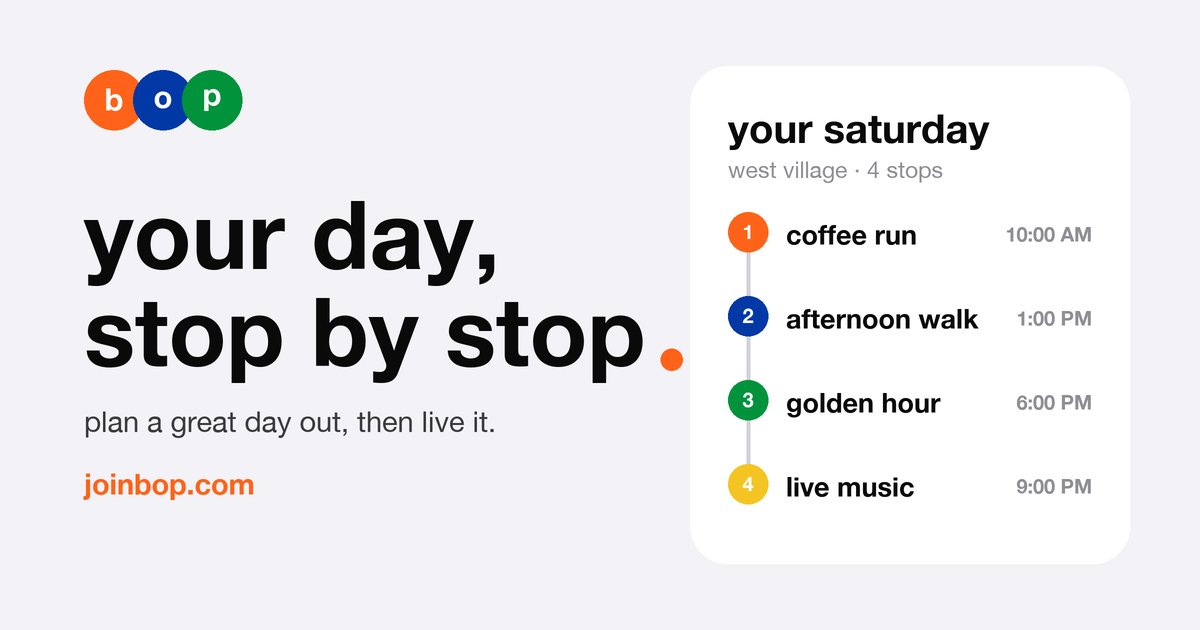
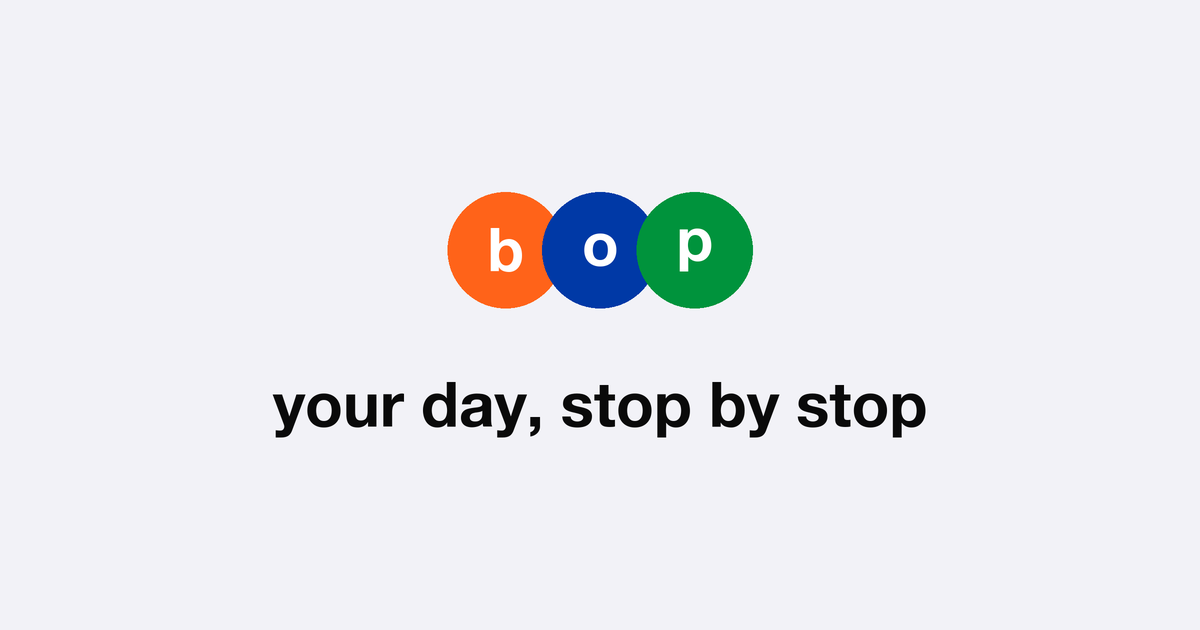
Simplify the link preview: wordmark and tagline, nothing else
The first version packed in a plan card, subtitle, and url. Too busy at
the size a preview actually renders. Now just the mark and the line,
centered on paper with room to breathe.

diff --git a/index.html b/index.html
@@ -8,15 +8,15 @@
 <meta name="description" content="Bop is how New York plans a great day out. Build it stop by stop, make it walkable, share the plan as one link. Then live it and walk away with the receipt.">
 <meta property="og:title" content="bop: your day, stop by stop">
 <meta property="og:description" content="Plan the perfect NYC day, live it, and walk away with the receipt.">
-<meta property="og:image" content="https://joinbop.com/og-home.png?v=2">
+<meta property="og:image" content="https://joinbop.com/og-home.png?v=3">
 <meta property="og:image:width" content="1200">
 <meta property="og:image:height" content="630">
-<meta property="og:image:alt" content="bop: your day, stop by stop. A day plan with four numbered stops.">
+<meta property="og:image:alt" content="bop: your day, stop by stop">
 <meta property="og:url" content="https://joinbop.com">
 <meta property="og:type" content="website">
 <!-- large_image renders a full-width card instead of a small square thumbnail -->
 <meta name="twitter:card" content="summary_large_image">
-<meta name="twitter:image" content="https://joinbop.com/og-home.png?v=2">
+<meta name="twitter:image" content="https://joinbop.com/og-home.png?v=3">
 <meta name="apple-itunes-app" content="app-id=6783394972">
 <link rel="apple-touch-icon" href="/icon-180.png">
 <link rel="icon" type="image/png" sizes="32x32" href="/favicon-32.png">
